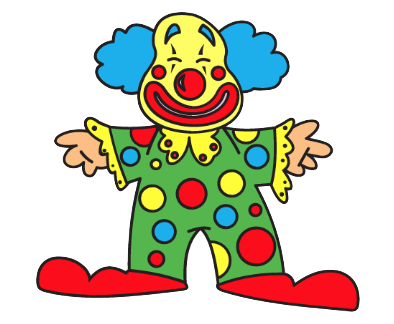
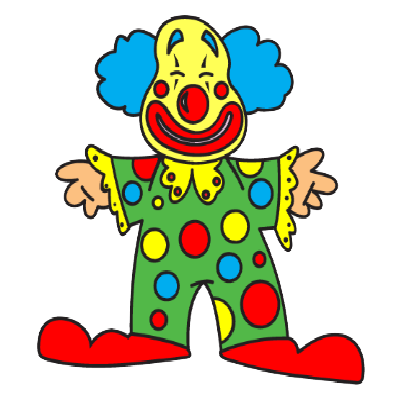
resize images to fix players/index

diff --git a/db/seeds.rb b/db/seeds.rb
@@ -7,35 +7,53 @@
 #     Quote.create!(text: result["quote"], author: result["author"])
 # end
 
-Quote.create!(text: "Dodge, Duck, Dip, Dive, and Dodge.", author: "DodgeBall" )
-Quote.create!(text: "Where we're going, we dont need roads.", author: "Back To the Future" )
-Quote.create!(text: "Nobody makes me bleed my own blood!", author: "DodgeBall" )
-Quote.create!(text: "Milk was a bad choice!", author: "Anchorman" )
-Quote.create!(text: "All those moments will be lost in time, like tears in rain...", author: "Blade Runner" )
-Quote.create!(text: "Tetsuo!!!", author: "Akira" )
-Quote.create!(text: "You either die a hero, or live long enough to see yourself become the villain.", author: "The Dark Knight" )
-Quote.create!(text: "The price is wrong b****", author: "Happy Gilmore" )
-Quote.create!(text: "Ma, the meatloaf!", author: "Wedding Crashers" )
-Quote.create!(text: "It’s like finding a needle in a stack of needles.", author: "Saving Private Ryan" )
-Quote.create!(text: "Get busy living, or get busy dying.", author: "The Shawshank Redemption" )
-Quote.create!(text: "It’s funny. On the outside, I was an honest man. Straight as an arrow. I had to come to prison to be a crook.", author: "The Shawshank Redemption" )
-Quote.create!(text: "They mostly come at night...mostly.", author: "Aliens" )
+# Quote.create!(text: "Dodge, Duck, Dip, Dive, and Dodge.", author: "DodgeBall" )
+# Quote.create!(text: "Where we're going, we dont need roads.", author: "Back To the Future" )
+# Quote.create!(text: "Nobody makes me bleed my own blood!", author: "DodgeBall" )
+# Quote.create!(text: "Milk was a bad choice!", author: "Anchorman" )
+# Quote.create!(text: "All those moments will be lost in time, like tears in rain...", author: "Blade Runner" )
+# Quote.create!(text: "Tetsuo!!!", author: "Akira" )
+# Quote.create!(text: "You either die a hero, or live long enough to see yourself become the villain.", author: "The Dark Knight" )
+# Quote.create!(text: "The price is wrong b****", author: "Happy Gilmore" )
+# Quote.create!(text: "Ma, the meatloaf!", author: "Wedding Crashers" )
+# Quote.create!(text: "It’s like finding a needle in a stack of needles.", author: "Saving Private Ryan" )
+# Quote.create!(text: "Get busy living, or get busy dying.", author: "The Shawshank Redemption" )
+# Quote.create!(text: "It’s funny. On the outside, I was an honest man. Straight as an arrow. I had to come to prison to be a crook.", author: "The Shawshank Redemption" )
+# Quote.create!(text: "They mostly come at night...mostly.", author: "Aliens" )
 
-Quote.create!(text: "With great power comes great responsibility.", author: "Spiderman" )
-Quote.create!(text: "Yippee-ki-yay, motherf****.", author: "Die Hard" )
-Quote.create!(text: "You're a wizard Harry!", author: "Harry Potter and the Sorcerer's Stone" )
-Quote.create!(text: "Aloha, Mr. Hand.", author: "Fast Times at Ridgemont High" )
-Quote.create!(text: "Let me tell you something. There's no nobility in poverty. I've been a poor man, and I've been a rich man. And I choose rich every fucking time.", author: "The Wolf of Wall Street" )
-Quote.create!(text: "When you decide to be something, you can be it. That's what they don't tell you in the church. When I was your age they would say we can become cops, or criminals. Today, what I'm saying to you is this: when you're facing a loaded gun, what's the difference?", author: "The Departed" )
-Quote.create!(text: "I hope she'll be a fool - that's the best thing a girl can be in this world, a beautiful little fool.", author: "The Great Gatsby" )
-Quote.create!(text: "Hasta la vista, baby.", author: "Terminator 2: Judgement Day" )
-Quote.create!(text: "I need your clothes, your boots and your motorcycle.", author: "Terminator 2: Judgement Day" )
-Quote.create!(text: "On Wednesdays we wear pink!", author: "Mean Girls" )
-Quote.create!(text: "I'm sorry that people are so jealous of me... but I can't help it that I'm popular.", author: "Mean Girls" )
-Quote.create!(text: "Don't cross the streams.", author: "Ghostbusters" )
-Quote.create!(text: "Who wants to go down the creepy tunnel inside the tomb first?", author: "National Treasure" )
-Quote.create!(text: "We named the *dog* Indiana.", author: "Indiana Jones and the Last Crusade" )
-Quote.create!(text: "According to the map, we've only gone 4 inches.", author: "Dumb and Dumber" )
-Quote.create!(text: "Just keep swimming.", author: "Finding Nemo" )
-Quote.create!(text: "To infinity, and beyond!", author: "Toy Story" )
-Quote.create!(text: "They took your wife away in a balloon? Well you don't need the police, pal, you need a psychiatrist!", author: "Killer Klowns from Outer Space")
+# Quote.create!(text: "With great power comes great responsibility.", author: "Spiderman" )
+# Quote.create!(text: "Yippee-ki-yay, motherf****.", author: "Die Hard" )
+# Quote.create!(text: "You're a wizard Harry!", author: "Harry Potter and the Sorcerer's Stone" )
+# Quote.create!(text: "Aloha, Mr. Hand.", author: "Fast Times at Ridgemont High" )
+# Quote.create!(text: "Let me tell you something. There's no nobility in poverty. I've been a poor man, and I've been a rich man. And I choose rich every fucking time.", author: "The Wolf of Wall Street" )
+# Quote.create!(text: "When you decide to be something, you can be it. That's what they don't tell you in the church. When I was your age they would say we can become cops, or criminals. Today, what I'm saying to you is this: when you're facing a loaded gun, what's the difference?", author: "The Departed" )
+# Quote.create!(text: "I hope she'll be a fool - that's the best thing a girl can be in this world, a beautiful little fool.", author: "The Great Gatsby" )
+# Quote.create!(text: "Hasta la vista, baby.", author: "Terminator 2: Judgement Day" )
+# Quote.create!(text: "I need your clothes, your boots and your motorcycle.", author: "Terminator 2: Judgement Day" )
+# Quote.create!(text: "On Wednesdays we wear pink!", author: "Mean Girls" )
+# Quote.create!(text: "I'm sorry that people are so jealous of me... but I can't help it that I'm popular.", author: "Mean Girls" )
+# Quote.create!(text: "Don't cross the streams.", author: "Ghostbusters" )
+# Quote.create!(text: "Who wants to go down the creepy tunnel inside the tomb first?", author: "National Treasure" )
+# Quote.create!(text: "We named the *dog* Indiana.", author: "Indiana Jones and the Last Crusade" )
+# Quote.create!(text: "According to the map, we've only gone 4 inches.", author: "Dumb and Dumber" )
+# Quote.create!(text: "Just keep swimming.", author: "Finding Nemo" )
+# Quote.create!(text: "To infinity, and beyond!", author: "Toy Story" )
+# Quote.create!(text: "They took your wife away in a balloon? Well you don't need the police, pal, you need a psychiatrist!", author: "Killer Klowns from Outer Space")
+
+
+Quote.create!(text: "It’s just a flesh wound.", author: "Monty Python and the Holy Grail" )
+Quote.create!(text: "This building has to be at least…. three times bigger than this!", author: "Zoolander" )
+Quote.create!(text: "I am serious. And don’t call me Shirley.", author: "Airplane" )
+Quote.create!(text: "Yeah, but I shoot with this hand.", author: "Blazing Saddles" )
+Quote.create!(text: "I’m just one stomach flu away from my goal weight.", author: "The Devil Wears Prada" )
+Quote.create!(text: "Where is my supersuit?!?!?!", author: "The Incredibles" )
+Quote.create!(text: "We get the warhead and we hold the world ransom for…. One million dollars.", author: "Austin Powers: International Man of Mystery" )
+Quote.create!(text: "Leave the gun, take the canoli.", author: "The Godfather" )
+Quote.create!(text: "I’m in a glass case of emotion!", author: "Anchorman" )
+Quote.create!(text: "I’ll have what she’s having.", author: "When Harry Met Sally" )
+Quote.create!(text: "It’s not a man purse. It’s called a satchel. Indiana Jones wears one.", author: "The Hangover" )
+Quote.create!(text: "She doesn't even go here!", author: "Mean Girls" )
+Quote.create!(text: "I am your father’s brother’s nephew’s cousin’s former roommate.", author: "Spaceballs" )
+Quote.create!(text: "McLovin? What kind of stupid name is that?", author: "Superbad" )
+Quote.create!(text: "That escalated quickly", author: "Anchorman" )
+

diff --git a/app/controllers/quotes_controller.rb b/app/controllers/quotes_controller.rb
@@ -1,0 +1,23 @@
+class QuotesController < ApplicationController
+    before_action :current_user
+    def new
+        @quote = Quote.new
+    end
+
+    def create
+        @quote = Quote.create(quote_params)
+        if @quote.valid?
+            @quote.save
+            redirect_to players_path
+        else
+            flash.now[:messages] = @quote.errors.full_messages
+            render :new
+        end
+    end
+
+    private
+
+    def quote_params
+        params.require(:quote).permit(:text, :author)
+    end
+end

diff --git a/config/routes.rb b/config/routes.rb
@@ -25,5 +25,7 @@ Rails.application.routes.draw do
   get '/games/:id/:status', to: 'games#guess'
   post '/games/:id/:status/:quote_id', to: 'games#assess'
   
-
+  #quotes routes
+  post '/quotes', to: 'quotes#create'
+  get '/quotes/new', to: 'quotes#new'
 end
